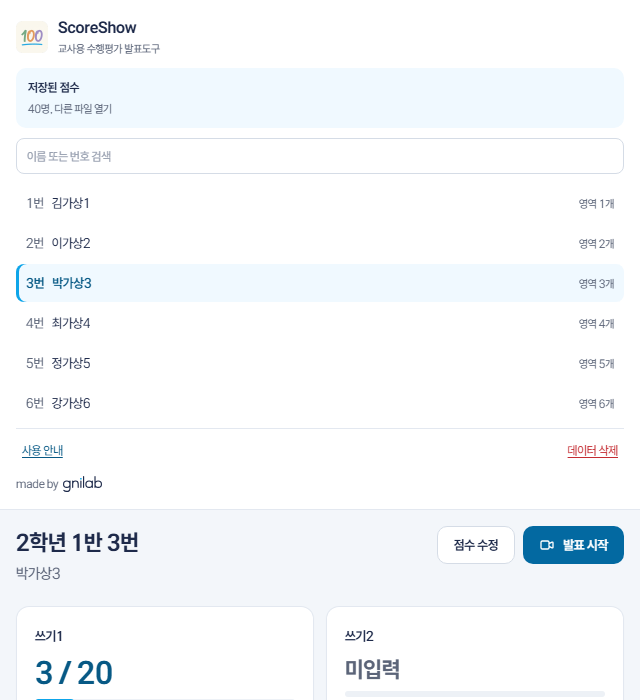
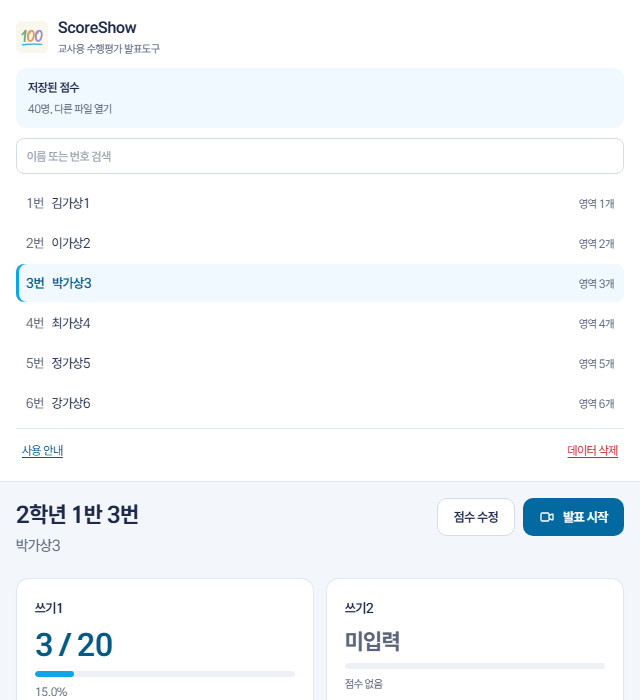
feat: show made by gnilab only in the usage guide dialog
The sidebar and the start screen no longer carry the mark, following the
family rule. ScoreShow has no settings window, so the guide dialog holds it.

diff --git a/src/components/StartScreen.tsx b/src/components/StartScreen.tsx
@@ -6,7 +6,6 @@
 import { useState } from "react";
 import type { ReactNode } from "react";
 import { AppBrand } from "./app/AppBrand";
-import { MadeBy } from "./app/MadeBy";
 import type { FileUpload } from "./app/useFileUpload";
 import { linkButton, primaryButton } from "./buttonStyles";
 import { UploadIcon } from "./icons";
@@ -94,10 +93,6 @@ export function StartScreen({
           </aside>
         </div>
       </main>
-
-      <footer className="flex-shrink-0 flex justify-end px-5 py-2">
-        <MadeBy />
-      </footer>
     </div>
   );
 }

diff --git a/src/components/Sidebar.tsx b/src/components/Sidebar.tsx
@@ -4,7 +4,6 @@
 
 import { useStore } from "../store/store";
 import { AppBrand } from "./app/AppBrand";
-import { MadeBy } from "./app/MadeBy";
 import type { FileUpload } from "./app/useFileUpload";
 import { dangerLinkButton, linkButton } from "./buttonStyles";
 import { StudentList } from "./StudentList";
@@ -64,7 +63,6 @@ export function Sidebar({
         </button>
         <DeleteDataButton />
       </div>
-      <MadeBy />
     </aside>
   );
 }

diff --git a/src/components/app/GuideDialog.tsx b/src/components/app/GuideDialog.tsx
@@ -104,7 +104,9 @@ export function GuideDialog({
           </p>
         </section>
 
-        <MadeBy />
+        <div className="mt-2">
+          <MadeBy />
+        </div>
       </div>
     </dialog>
   );

diff --git a/docs/refactor/06-rebuild.md b/docs/refactor/06-rebuild.md
@@ -68,8 +68,8 @@ node e2e/results-table.mjs <지금 화면 JSON> <새 화면 JSON> docs/refactor/
 
 | 구역 | 내용 | 코드 |
 |------|------|------|
-| 시작 화면 | 큰 놓는 칸, 파일 선택, 나이스에서 받는 방법, 표준 서식 받기, 저장 위치 한 줄, 사용 안내, made by gnilab | `components/StartScreen.tsx` |
-| 사이드바 | 로고와 소개와 버전, 파일 이름과 다른 파일 열기, 검색, 학생 목록, 사용 안내, 데이터 삭제, made by gnilab | `components/Sidebar.tsx`, `StudentList.tsx` |
+| 시작 화면 | 큰 놓는 칸, 파일 선택, 나이스에서 받는 방법, 표준 서식 받기, 저장 위치 한 줄, 사용 안내 | `components/StartScreen.tsx` |
+| 사이드바 | 로고와 소개와 버전, 파일 이름과 다른 파일 열기, 검색, 학생 목록, 사용 안내, 데이터 삭제 | `components/Sidebar.tsx`, `StudentList.tsx` |
 | 작업 영역 | 학생 제목, 점수 수정, 발표 시작, 점수 카드, 저장 위치 한 줄 | `components/PreviewPanel.tsx` |
 | 사용 안내 창 | 옛 안내 상자의 내용 전부, 표준 서식 받기, made by gnilab | `components/app/GuideDialog.tsx` |
 | 발표 화면 | 흰 사이드바, 바탕 위 흰 카드, 큰 글씨. 세 화면을 한 구조로 합침 | `components/Presenter.tsx`, `presenter/` |
@@ -77,7 +77,7 @@ node e2e/results-table.mjs <지금 화면 JSON> <새 화면 JSON> docs/refactor/
 
 지운 파일: `FilePicker.tsx`, `app/AppHeader.tsx`, `app/DataSafetyNotice.tsx`, `preview/ActionButtons.tsx`.
 
-`made by gnilab`은 `brand/DESIGN.md`의 앱 안 표기대로 사이드바 맨 아래, 시작 화면 맨 아래, 사용 안내 창에 넣었고 발표 화면에는 넣지 않았습니다. 로고는 `src/assets/gnilab.svg`로 복사해 번들했고, 높이 16px, `made by` 12px `--soft`, 간격 5px, 누를 수 없습니다(`RB-16`).
+`made by gnilab`은 `brand/DESIGN.md`의 앱 안 표기대로 사용 안내 창에만 넣었습니다(2026-10-30 변경). 사이드바, 시작 화면, 발표 화면에는 넣지 않습니다. 이 결정 전에 찍은 캡처에는 사이드바와 시작 화면에 표시가 보입니다. 로고는 `src/assets/gnilab.svg`로 복사해 번들했고, 높이 16px, `made by` 12px `--soft`, 간격 5px, 누를 수 없습니다(`RB-16`).
 
 ## 전과 달라진 점
 

diff --git a/docs/refactor/06-results.md b/docs/refactor/06-results.md
@@ -131,5 +131,5 @@
 | RB-13 | 좁은 창(640, 480)에서 위와 같습니다 | 실패 0/2 | 통과 2/2 |
 | RB-14 | 최소 창에서 발표 화면의 이름과 점수가 잘리지 않습니다 | 실패 3/7 | 통과 7/7 |
 | RB-15 | 발표 화면이 사이드바와 같은 구조 언어를 씁니다 (흰 사이드바, 바탕 위 흰 카드, 로고) | 실패 | 통과 |
-| RB-16 | `made by gnilab` 표시 (코디네이터 추가 지시): 사이드바 맨 아래, 시작 화면 맨 아래, 사용 안내 창에 있고 발표 화면에는 없습니다. 로고 높이 16px, `made by` 12px `--soft`, 간격 5px, 누를 수 없습니다 | 실패 | 통과 |
+| RB-16 | `made by gnilab` 표시 (코디네이터 추가 지시): 사용 안내 창에만 있고 사이드바, 시작 화면, 발표 화면에는 없습니다. 로고 높이 16px, `made by` 12px `--soft`, 간격 5px, 누를 수 없습니다 | 실패 | 통과 |
 | RB-17 | 고른 학생이 없어도 발표 시작은 오른쪽에, 데이터 삭제는 사이드바에 있습니다 | 실패 | 통과 |

diff --git a/docs/refactor/06-feature-inventory.md b/docs/refactor/06-feature-inventory.md
@@ -208,7 +208,7 @@
 | RB-13 | 좁은 창(640, 480)에서 위와 같습니다 |
 | RB-14 | 최소 창에서 발표 화면의 이름과 점수가 잘리지 않습니다 |
 | RB-15 | 발표 화면이 사이드바와 같은 구조 언어를 씁니다 (흰 사이드바, 바탕 위 흰 카드, 로고) |
-| RB-16 | `made by gnilab` 표시 (코디네이터 추가 지시): 사이드바 맨 아래, 시작 화면 맨 아래, 사용 안내 창에 있고 발표 화면에는 없습니다. 로고 높이 16px, `made by` 12px `--soft`, 간격 5px, 누를 수 없습니다 |
+| RB-16 | `made by gnilab` 표시 (코디네이터 추가 지시): 사용 안내 창에만 있고 사이드바, 시작 화면, 발표 화면에는 없습니다. 로고 높이 16px, `made by` 12px `--soft`, 간격 5px, 누를 수 없습니다 |
 | RB-17 | 고른 학생이 없어도 발표 시작은 오른쪽에, 데이터 삭제는 사이드바에 있습니다 |
 
 ## 시험하지 않는 항목
